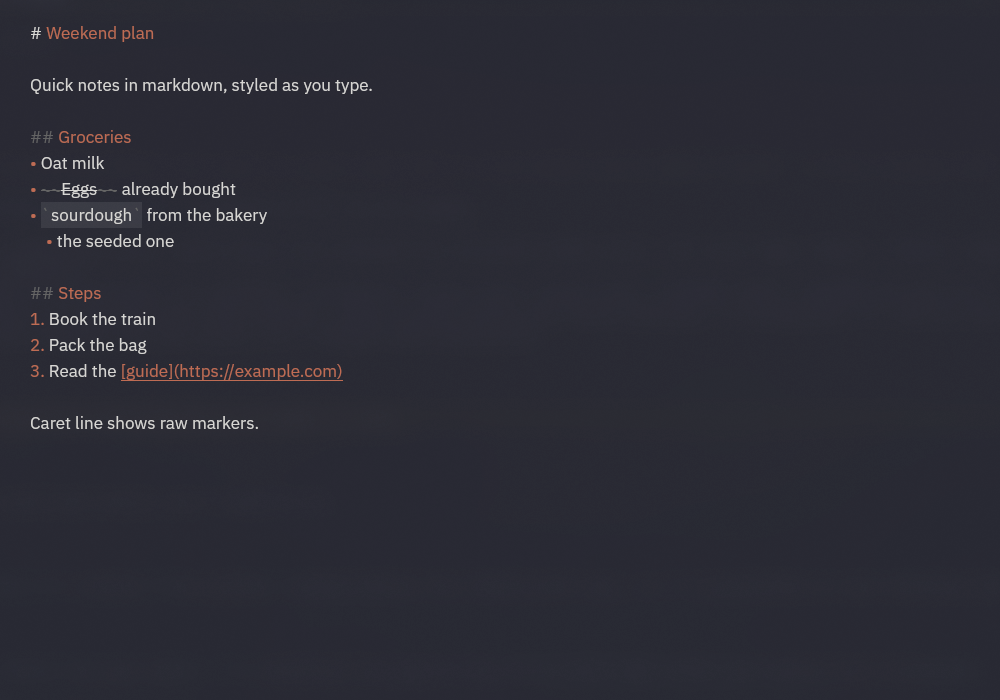
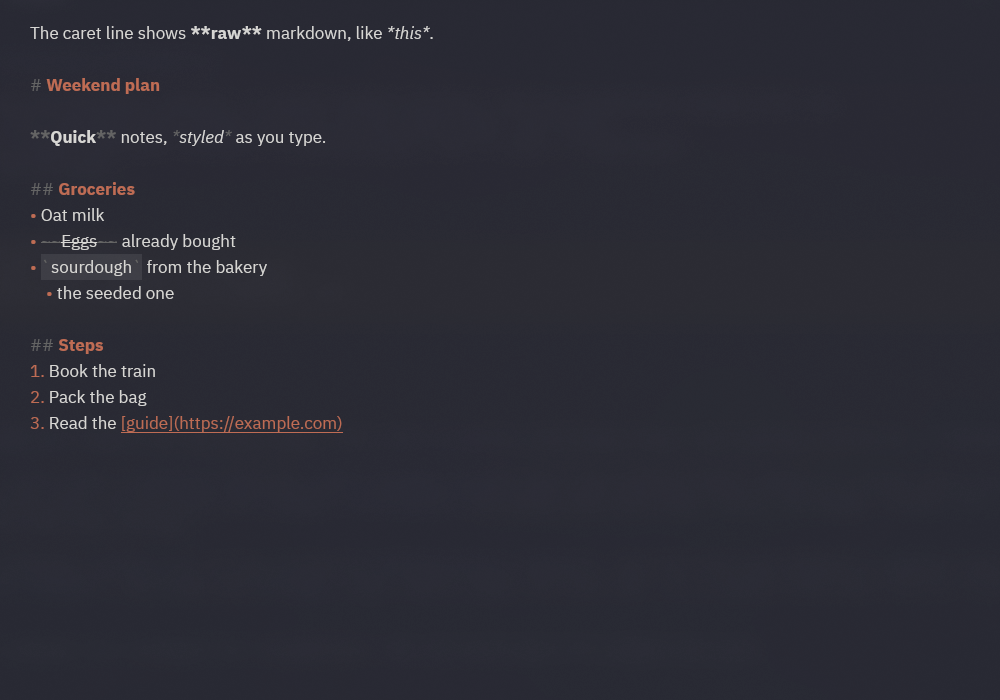
docs: retake screenshot, note bold/italic and static font requirement

Changed region(s): [[0.031, 0.18, 0.341, 0.63], [0.031, 0.09, 0.372, 0.15], [0.031, 0.03, 0.434, 0.06]]

diff --git a/README.md b/README.md
@@ -9,7 +9,7 @@ Hit a hotkey, jot something down, hit it again. The window closes and the text i
 ## What it does
 
 - **One note, always saved.** Every change is written to `~/Documents/scratchpad.md` as you type. Open it in any editor.
-- **Live markdown styling.** Headings, `~~strikethrough~~`, `` `code` `` and links are styled while you write. Markers (`#`, `~~`, backticks) are dimmed on every line except the one with the caret, so raw markdown shows only where you are editing.
+- **Live markdown styling.** Headings, **bold**, *italic*, `~~strikethrough~~`, `` `code` `` and links are styled while you write. Markers (`#`, `~~`, backticks) are dimmed on every line except the one with the caret, so raw markdown shows only where you are editing.
 - **Lists that behave.** Typing `- ` turns into a `•` bullet. Enter continues the list (bullets and `1.` numbering), and Enter on an empty item ends it. Tab and Shift+Tab indent and outdent a bullet. Bullet and number markers are tinted with the accent color.
 - **Copy on select.** Selected text goes to both Wayland clipboards (regular and primary), so it pastes in terminals with Shift+Insert. It stays available after the app closes.
 - **Remembers its place.** Window size and position are saved and restored (Hyprland, via `hyprctl`).
@@ -21,7 +21,7 @@ Hit a hotkey, jot something down, hit it again. The window closes and the text i
 cargo build --release
 ```
 
-Needs a Wayland session with `wl-copy` (from `wl-clipboard`) for copy on select. Window position tracking needs Hyprland. The font is set by `FONT` in `src/main.rs` and must be installed.
+Needs a Wayland session with `wl-copy` (from `wl-clipboard`) for copy on select. Window position tracking needs Hyprland. The font is set by `FONT` in `src/main.rs` and must be installed. Use a font with static Bold and Italic files (on Arch, `ttf-ibm-plex`): GPUI does not apply variable-font axes, so a variable font shows no bold or italic.
 
 ## Run
 
